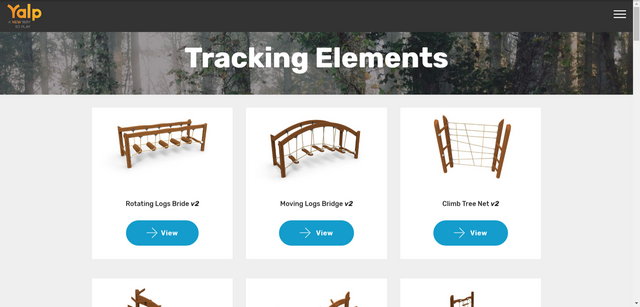
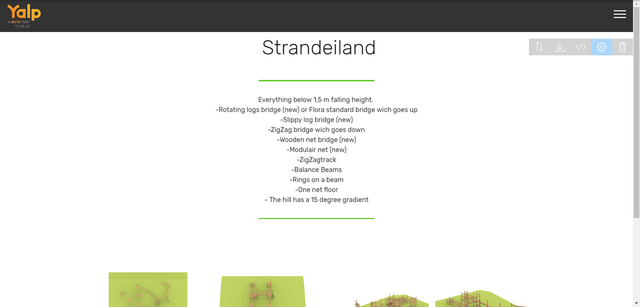
1
1

diff --git a/March2018/page21.html b/March2018/page21.html
@@ -65,7 +65,7 @@
     </nav>
 </section>
 
-<section class="engine"><a href="https://mobirise.me/j">website templates</a></section><section class="mbr-section content4 cid-qUWcBf9lUk" id="content4-46">
+<section class="engine"><a href="https://mobirise.me/o">one page website templates</a></section><section class="mbr-section content4 cid-qUWcBf9lUk" id="content4-46">
 
     
 
@@ -88,7 +88,7 @@
         <div class="inner-container" style="width: 100%;">
             <hr class="line" style="width: 25%;">
             <div class="section-text align-center mbr-fonts-style display-7">
-                    Everything below 1,5 m falling height.&nbsp;<br>-Rotating logs bridge (new) or Flora standard bridge wich goes up<br>-Slippy log bridge (new)<br>-ZigZag bridge wich goes down<br>-Wooden net bridge (new)<br>-Modulair net (new)<br>-ZigZagtrack<br>-Balance Beams<br>-Rings on a beam<br>-One net floor<br></div>
+                    Everything below 1,5 m falling height.&nbsp;<br>-Rotating logs bridge (new) or Flora standard bridge wich goes up<br>-Slippy log bridge (new)<br>-ZigZag bridge wich goes down<br>-Wooden net bridge (new)<br>-Modulair net (new)<br>-ZigZagtrack<br>-Balance Beams<br>-Rings on a beam<br>-One net floor<br>- The hill has a 15 degree gradient</div>
             <hr class="line" style="width: 25%;">
         </div>
         </div>
@@ -99,7 +99,7 @@
     
 
     <div class="container">
-        <div><!-- Filter --><!-- Gallery --><div class="mbr-gallery-row"><div class="mbr-gallery-layout-default"><div><div><div class="mbr-gallery-item mbr-gallery-item--p1" data-video-url="false" data-tags="Geweldige"><div href="#lb-gallery1-48" data-slide-to="0" data-toggle="modal"><img src="assets/images/toestel-dwg.47-2000x1328-800x531.png" alt="" title=""><span class="icon-focus"></span><span class="mbr-gallery-title mbr-fonts-style display-7">Side top</span></div></div><div class="mbr-gallery-item mbr-gallery-item--p1" data-video-url="false" data-tags="Geweldige"><div href="#lb-gallery1-48" data-slide-to="1" data-toggle="modal"><img src="assets/images/toestel-dwg.46-2000x1328-800x531.png" alt="" title=""><span class="icon-focus"></span><span class="mbr-gallery-title mbr-fonts-style display-7">Top</span></div></div><div class="mbr-gallery-item mbr-gallery-item--p1" data-video-url="false" data-tags="Geweldige"><div href="#lb-gallery1-48" data-slide-to="2" data-toggle="modal"><img src="assets/images/toestel-dwg.45-2000x1328-800x531.png" alt="" title=""><span class="icon-focus"></span><span class="mbr-gallery-title mbr-fonts-style display-7">New method master modulair net</span></div></div><div class="mbr-gallery-item mbr-gallery-item--p1" data-video-url="false" data-tags="Geweldige"><div href="#lb-gallery1-48" data-slide-to="3" data-toggle="modal"><img src="assets/images/toestel-dwg.44-2000x1328-800x531.png" alt="" title=""><span class="icon-focus"></span><span class="mbr-gallery-title mbr-fonts-style display-7">Low side</span></div></div><div class="mbr-gallery-item mbr-gallery-item--p1" data-video-url="false" data-tags="Geweldige"><div href="#lb-gallery1-48" data-slide-to="4" data-toggle="modal"><img src="assets/images/toestel-dwg.43-2000x1328-800x531.png" alt="" title=""><span class="icon-focus"></span><span class="mbr-gallery-title mbr-fonts-style display-7">Side</span></div></div><div class="mbr-gallery-item mbr-gallery-item--p1" data-video-url="false" data-tags="Geweldige"><div href="#lb-gallery1-48" data-slide-to="5" data-toggle="modal"><img src="assets/images/toestel-dwg.42-2000x1328-800x531.png" alt="" title=""><span class="icon-focus"></span><span class="mbr-gallery-title mbr-fonts-style display-7">No roofs</span></div></div><div class="mbr-gallery-item mbr-gallery-item--p1" data-video-url="false" data-tags="Geweldige"><div href="#lb-gallery1-48" data-slide-to="6" data-toggle="modal"><img src="assets/images/toestel-dwg.41-2000x1328-800x531.png" alt="" title=""><span class="icon-focus"></span><span class="mbr-gallery-title mbr-fonts-style display-7">Normal roofs</span></div></div><div class="mbr-gallery-item mbr-gallery-item--p1" data-video-url="false" data-tags="Geweldige"><div href="#lb-gallery1-48" data-slide-to="7" data-toggle="modal"><img src="assets/images/toestel-dwg.40-2000x1328-800x531.png" alt="" title=""><span class="icon-focus"></span><span class="mbr-gallery-title mbr-fonts-style display-7">Green roofs</span></div></div></div></div><div class="clearfix"></div></div></div><!-- Lightbox --><div data-app-prevent-settings="" class="mbr-slider modal fade carousel slide" tabindex="-1" data-keyboard="true" data-interval="false" id="lb-gallery1-48"><div class="modal-dialog"><div class="modal-content"><div class="modal-body"><div class="carousel-inner"><div class="carousel-item"><img src="assets/images/toestel-dwg.47-2000x1328.png" alt="" title=""></div><div class="carousel-item"><img src="assets/images/toestel-dwg.46-2000x1328.png" alt="" title=""></div><div class="carousel-item"><img src="assets/images/toestel-dwg.45-2000x1328.png" alt="" title=""></div><div class="carousel-item"><img src="assets/images/toestel-dwg.44-2000x1328.png" alt="" title=""></div><div class="carousel-item"><img src="assets/images/toestel-dwg.43-2000x1328.png" alt="" title=""></div><div class="carousel-item"><img src="assets/images/toestel-dwg.42-2000x1328.png" alt="" title=""></div><div class="carousel-item"><img src="assets/images/toestel-dwg.41-2000x1328.png" alt="" title=""></div><div class="carousel-item active"><img src="assets/images/toestel-dwg.40-2000x1328.png" alt="" title=""></div></div><a class="carousel-control carousel-control-prev" role="button" data-slide="prev" href="#lb-gallery1-48"><span class="mbri-left mbr-iconfont" aria-hidden="true"></span><span class="sr-only">Previous</span></a><a class="carousel-control carousel-control-next" role="button" data-slide="next" href="#lb-gallery1-48"><span class="mbri-right mbr-iconfont" aria-hidden="true"></span><span class="sr-only">Next</span></a><a class="close" href="#" role="button" data-dismiss="modal"><span class="sr-only">Close</span></a></div></div></div></div></div>
+        <div><!-- Filter --><!-- Gallery --><div class="mbr-gallery-row"><div class="mbr-gallery-layout-default"><div><div><div class="mbr-gallery-item mbr-gallery-item--p1" data-video-url="false" data-tags="Geweldige"><div href="#lb-gallery1-48" data-slide-to="0" data-toggle="modal"><img src="assets/images/toestel-dwg2.105-1920x1301-800x542.png" alt="" title=""><span class="icon-focus"></span><span class="mbr-gallery-title mbr-fonts-style display-7">Side top</span></div></div><div class="mbr-gallery-item mbr-gallery-item--p1" data-video-url="false" data-tags="Geweldige"><div href="#lb-gallery1-48" data-slide-to="1" data-toggle="modal"><img src="assets/images/toestel-dwg2.106-1920x1301-800x542.png" alt="" title=""><span class="icon-focus"></span><span class="mbr-gallery-title mbr-fonts-style display-7">Side Top</span></div></div><div class="mbr-gallery-item mbr-gallery-item--p1" data-video-url="false" data-tags="Geweldige"><div href="#lb-gallery1-48" data-slide-to="2" data-toggle="modal"><img src="assets/images/toestel-dwg2.104-1920x1301-800x542.png" alt="" title=""><span class="icon-focus"></span><span class="mbr-gallery-title mbr-fonts-style display-7">New method master modulair net</span></div></div><div class="mbr-gallery-item mbr-gallery-item--p1" data-video-url="false" data-tags="Geweldige"><div href="#lb-gallery1-48" data-slide-to="3" data-toggle="modal"><img src="assets/images/toestel-dwg2.103-1920x1301-800x542.png" alt="" title=""><span class="icon-focus"></span><span class="mbr-gallery-title mbr-fonts-style display-7">Side</span></div></div><div class="mbr-gallery-item mbr-gallery-item--p1" data-video-url="false" data-tags="Geweldige"><div href="#lb-gallery1-48" data-slide-to="4" data-toggle="modal"><img src="assets/images/image003-1-1035x307-800x237.jpg" alt="" title=""><span class="icon-focus"></span><span class="mbr-gallery-title mbr-fonts-style display-7">Hill gradient</span></div></div></div></div><div class="clearfix"></div></div></div><!-- Lightbox --><div data-app-prevent-settings="" class="mbr-slider modal fade carousel slide" tabindex="-1" data-keyboard="true" data-interval="false" id="lb-gallery1-48"><div class="modal-dialog"><div class="modal-content"><div class="modal-body"><div class="carousel-inner"><div class="carousel-item"><img src="assets/images/toestel-dwg2.105-1920x1301.png" alt="" title=""></div><div class="carousel-item"><img src="assets/images/toestel-dwg2.106-1920x1301.png" alt="" title=""></div><div class="carousel-item"><img src="assets/images/toestel-dwg2.104-1920x1301.png" alt="" title=""></div><div class="carousel-item active"><img src="assets/images/toestel-dwg2.103-1920x1301.png" alt="" title=""></div><div class="carousel-item"><img src="assets/images/image003-1-1035x307.jpg" alt="" title=""></div></div><a class="carousel-control carousel-control-prev" role="button" data-slide="prev" href="#lb-gallery1-48"><span class="mbri-left mbr-iconfont" aria-hidden="true"></span><span class="sr-only">Previous</span></a><a class="carousel-control carousel-control-next" role="button" data-slide="next" href="#lb-gallery1-48"><span class="mbri-right mbr-iconfont" aria-hidden="true"></span><span class="sr-only">Next</span></a><a class="close" href="#" role="button" data-dismiss="modal"><span class="sr-only">Close</span></a></div></div></div></div></div>
     </div>
 
 </section>

diff --git a/March2018/index.html b/March2018/index.html
@@ -65,7 +65,7 @@
     </nav>
 </section>
 
-<section class="engine"><a href="https://mobirise.me">Mobirise</a></section><section class="mbr-section content5 cid-qM5y0KNGJM mbr-parallax-background" id="content5-2">
+<section class="engine"><a href="https://mobirise.me/u">bootstrap html templates</a></section><section class="mbr-section content5 cid-qM5y0KNGJM mbr-parallax-background" id="content5-2">
 
     
 

diff --git a/March2018/page20.html b/March2018/page20.html
@@ -65,7 +65,7 @@
     </nav>
 </section>
 
-<section class="engine"><a href="https://mobirise.me/r">free bootstrap templates</a></section><section class="mbr-section content4 cid-qTZV6VIpVU" id="content4-43">
+<section class="engine"><a href="https://mobirise.me/b">create a website for free</a></section><section class="mbr-section content4 cid-qTZV6VIpVU" id="content4-43">
 
     
 

diff --git a/March2018/page4.html b/March2018/page4.html
@@ -64,7 +64,7 @@
     </nav>
 </section>
 
-<section class="engine"><a href="https://mobirise.me/p">website templates free download</a></section><section class="features14 cid-qM5OZEmZVs" id="features14-g">
+<section class="engine"><a href="https://mobirise.me/o">free one page web templates</a></section><section class="features14 cid-qM5OZEmZVs" id="features14-g">
     
     
 

diff --git a/March2018/page15.html b/March2018/page15.html
@@ -65,7 +65,7 @@
     </nav>
 </section>
 
-<section class="engine"><a href="https://mobirise.me/u">bootstrap html templates</a></section><section class="mbr-section content4 cid-qScj0OjnTY" id="content4-2v">
+<section class="engine"><a href="https://mobirise.me/r">bootstrap template</a></section><section class="mbr-section content4 cid-qScj0OjnTY" id="content4-2v">
 
     
 

diff --git a/March2018/page19.html b/March2018/page19.html
@@ -65,7 +65,7 @@
     </nav>
 </section>
 
-<section class="engine"><a href="https://mobirise.me/v">free html templates</a></section><section class="mbr-section content4 cid-qTHObWDDVO" id="content4-3f">
+<section class="engine"><a href="https://mobirise.me/z">best website templates</a></section><section class="mbr-section content4 cid-qTHObWDDVO" id="content4-3f">
 
     
 

diff --git a/March2018/page7.html b/March2018/page7.html
@@ -64,7 +64,7 @@
     </nav>
 </section>
 
-<section class="engine"><a href="https://mobirise.me/b">create a website for free</a></section><section class="features14 cid-qN0HMcmnbv" id="features14-12">
+<section class="engine"><a href="https://mobirise.me/p">web templates free download</a></section><section class="features14 cid-qN0HMcmnbv" id="features14-12">
     
     
 

diff --git a/March2018/page16.html b/March2018/page16.html
@@ -64,7 +64,7 @@
     </nav>
 </section>
 
-<section class="engine"><a href="https://mobirise.me/q">responsive website templates</a></section><section class="features14 cid-qTlV6Nte9m" id="features14-38">
+<section class="engine"><a href="https://mobirise.me/a">Mobirise alternative</a></section><section class="features14 cid-qTlV6Nte9m" id="features14-38">
     
     
 

diff --git a/March2018/page1.html b/March2018/page1.html
@@ -64,7 +64,7 @@
     </nav>
 </section>
 
-<section class="engine"><a href="https://mobirise.me/f">simple web creator</a></section><section class="features14 cid-qM5AAFTvRs" id="features14-5">
+<section class="engine"><a href="https://mobirise.me/o">free one page website templates</a></section><section class="features14 cid-qM5AAFTvRs" id="features14-5">
     
     
 

diff --git a/March2018/page5.html b/March2018/page5.html
@@ -65,7 +65,7 @@
     </nav>
 </section>
 
-<section class="engine"><a href="https://mobirise.me/n">free landing page html templates</a></section><section class="features14 cid-qM5Rr5wPlb" id="features14-k">
+<section class="engine"><a href="https://mobirise.me/a">Mobirise review</a></section><section class="features14 cid-qM5Rr5wPlb" id="features14-k">
     
     
 

diff --git a/March2018/page11.html b/March2018/page11.html
@@ -64,7 +64,7 @@
     </nav>
 </section>
 
-<section class="engine"><a href="https://mobirise.me/m">free web design templates</a></section><section class="features14 cid-qPAahfM8eW" id="features14-21">
+<section class="engine"><a href="https://mobirise.me/t">free amp templates</a></section><section class="features14 cid-qPAahfM8eW" id="features14-21">
     
     
 

diff --git a/March2018/page6.html b/March2018/page6.html
@@ -64,7 +64,7 @@
     </nav>
 </section>
 
-<section class="engine"><a href="https://mobirise.me/r">free bootstrap template</a></section><section class="features14 cid-qMsRpxURIz" id="features14-y">
+<section class="engine"><a href="https://mobirise.me/b">create a site for free</a></section><section class="features14 cid-qMsRpxURIz" id="features14-y">
     
     
 
